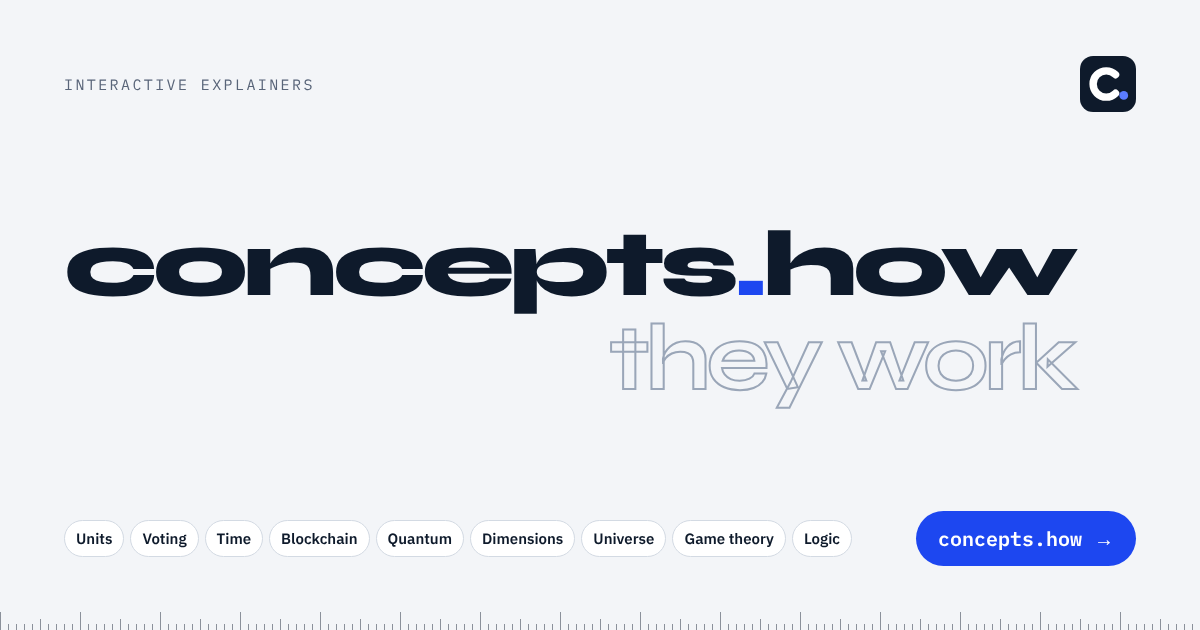
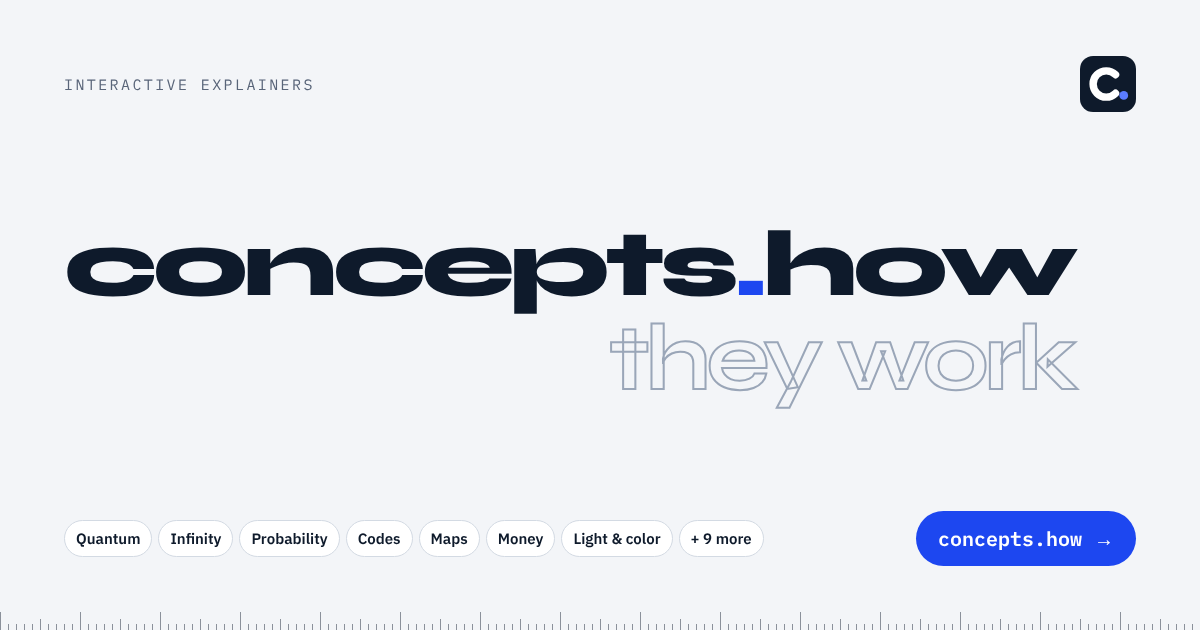
Grouped Topics menu on all widths, cookie copy for new pages, updated share card and README
Claude-Session: https://claude.ai/code/session_014eWKRQ3YXh4wgfZGGefy9o

Changed region(s): [[0.0617, 0.8444, 0.6475, 0.8746], [0.6783, 0.8444, 0.7092, 0.8746]]

diff --git a/theme.js b/theme.js
@@ -58,46 +58,61 @@
   }
 })();
 
-/* Mobile topics menu: on narrow screens the topic links fold into a kebab (⋮) button. */
+/* Topics menu: the topic links fold into a "Topics" button (⋮ on phones) that opens a grouped grid. */
 (function () {
   var es = (document.documentElement.lang || "").slice(0, 2) === "es";
-  var L = es ? { btn: "Menú", menu: "Temas", set: "Idioma y tema" } : { btn: "Menu", menu: "Topics", set: "Language & theme" };
+  var L = es ? { btn: "Temas", menu: "Todos los temas", set: "Idioma y tema" } : { btn: "Topics", menu: "All topics", set: "Language & theme" };
+  var GROUPS = es
+    ? [["Matemáticas y lógica", ["logic", "probability", "infinity", "gametheory"]], ["Física y espacio", ["quantum", "light", "universe", "time", "dimensions"]], ["Sociedad", ["voting", "money", "language", "maps"]], ["Tecnología y medida", ["blockchain", "codes", "units"]]]
+    : [["Maths & logic", ["logic", "probability", "infinity", "gametheory"]], ["Physics & space", ["quantum", "light", "universe", "time", "dimensions"]], ["People & society", ["voting", "money", "language", "maps"]], ["Tech & measurement", ["blockchain", "codes", "units"]]];
   var SM = 640;
-  var BP = 1180;
-  var css = ".site{position:relative}" +
-    ".kb{display:none;place-items:center;width:40px;height:40px;border:1px solid var(--line);border-radius:999px;background:var(--card);color:var(--ink);cursor:pointer;padding:0}" +
+  var css = ".site{position:relative}.site a.nl{display:none!important}.site .ctl{margin-left:auto}.site .wrap{flex-wrap:nowrap;padding-bottom:0}" +
+    ".kb{display:inline-flex;align-items:center;gap:8px;height:40px;padding:0 14px 0 12px;border:1px solid var(--line);border-radius:999px;background:var(--card);color:var(--ink);cursor:pointer;font:600 14px/1 var(--body,system-ui)}" +
     ".kb:hover,.kb[aria-expanded=true]{border-color:var(--accent);color:var(--accent)}" +
-    ".kb svg{width:18px;height:18px}" +
-    ".kbm{position:absolute;right:clamp(16px,4vw,40px);top:calc(100% + 6px);z-index:900;min-width:220px;max-width:calc(100vw - 32px);background:var(--card);border:1px solid var(--line);border-radius:14px;box-shadow:0 14px 34px rgba(0,0,0,.18);padding:6px;display:grid;gap:2px}" +
+    ".kb svg{width:16px;height:16px}.kb .dots{display:none}" +
+    ".kbm{position:absolute;right:clamp(16px,4vw,40px);top:calc(100% + 6px);z-index:900;width:min(780px,calc(100vw - 32px));max-height:calc(100vh - 90px);overflow:auto;background:var(--card);border:1px solid var(--line);border-radius:16px;box-shadow:0 18px 40px rgba(0,0,0,.18);padding:10px;display:grid;gap:4px}" +
     ".kbm[hidden]{display:none}" +
-    ".kbm .h{font-family:var(--mono,monospace);font-size:11px;letter-spacing:.1em;text-transform:uppercase;color:var(--muted);padding:8px 12px 4px}" +
-    ".kbm a{display:flex;align-items:center;justify-content:space-between;gap:12px;padding:11px 12px;border-radius:9px;color:var(--ink);text-decoration:none;font-size:15px}" +
-    ".kbm a:hover{background:var(--paper)}" +
+    ".kbm .h{font-family:var(--mono,monospace);font-size:11px;letter-spacing:.1em;text-transform:uppercase;color:var(--muted);padding:8px 10px 4px}" +
+    ".kbm .grp{display:grid;grid-template-columns:repeat(4,minmax(0,1fr));gap:4px 12px}" +
+    ".kbm .col{display:grid;align-content:start;gap:1px}" +
+    ".kbm a{display:block;padding:9px 10px;border-radius:9px;color:var(--ink);text-decoration:none;font-size:15px}" +
+    ".kbm a:hover,.kbm a:focus-visible{background:var(--paper)}" +
     ".kbm a[aria-current=page]{background:var(--accent-soft,var(--paper));color:var(--accent);font-weight:600}" +
-    ".kbm a span{font-family:var(--mono,monospace);font-size:11px;color:var(--muted)}" +
-    "@media (max-width:" + BP + "px){.site a.nl{display:none!important}.kb{display:grid}.site .ctl{margin-left:auto}.site .wrap{flex-wrap:nowrap;padding-bottom:0}}" +
-    ".kbm .set{border-top:1px solid var(--line);margin-top:4px;padding:10px 12px 8px;display:grid;gap:8px}" +
+    ".kbm .home{border-top:1px solid var(--line);margin-top:6px;padding-top:8px;display:flex;justify-content:space-between;align-items:center;gap:8px;flex-wrap:wrap}" +
+    ".kbm .home a{font-size:14px;color:var(--muted)}" +
+    ".kbm .set{border-top:1px solid var(--line);margin-top:4px;padding:10px 10px 6px;display:grid;gap:8px}" +
     ".kbm .set .ctl{display:flex!important;gap:8px;margin:0!important;flex-wrap:wrap}" +
-    "@media (max-width:" + SM + "px){.wrap{padding-left:12px!important;padding-right:12px!important}.kbm{right:12px;left:12px;min-width:0;max-width:none}}";
+    "@media (max-width:860px){.kbm .grp{grid-template-columns:repeat(2,minmax(0,1fr))}}" +
+    "@media (max-width:" + SM + "px){.wrap{padding-left:12px!important;padding-right:12px!important}.kbm{right:12px;left:12px;width:auto}.kbm .grp{grid-template-columns:1fr 1fr}" +
+    ".kb{width:40px;padding:0;justify-content:center}.kb .lbl2,.kb .grid{display:none}.kb .dots{display:block}}" +
+    "@media (max-width:360px){.kbm .grp{grid-template-columns:1fr}}";
   var st = document.createElement("style"); st.textContent = css; document.head.appendChild(st);
 
   function init() {
     var wrap = document.querySelector("nav.site .wrap");
-    var links = wrap ? wrap.querySelectorAll("a.nl") : [];
+    var links = wrap ? [].slice.call(wrap.querySelectorAll("a.nl")) : [];
     if (!links.length) return;
+    var bySlug = {};
+    links.forEach(function (a) { bySlug[(a.getAttribute("href") || "").replace(/^.*\//, "").replace(/\.html$/, "")] = a; });
     var btn = document.createElement("button");
     btn.type = "button"; btn.className = "kb";
     btn.setAttribute("aria-label", L.btn); btn.setAttribute("aria-haspopup", "true");
     btn.setAttribute("aria-expanded", "false"); btn.setAttribute("aria-controls", "kbm");
-    btn.innerHTML = '<svg viewBox="0 0 24 24" fill="currentColor" aria-hidden="true"><circle cx="12" cy="5" r="2"/><circle cx="12" cy="12" r="2"/><circle cx="12" cy="19" r="2"/></svg>';
+    btn.innerHTML = '<svg class="grid" viewBox="0 0 24 24" fill="currentColor" aria-hidden="true"><rect x="3" y="3" width="7.5" height="7.5" rx="2"/><rect x="13.5" y="3" width="7.5" height="7.5" rx="2"/><rect x="3" y="13.5" width="7.5" height="7.5" rx="2"/><rect x="13.5" y="13.5" width="7.5" height="7.5" rx="2"/></svg><span class="lbl2">' + L.btn + '</span><svg class="dots" viewBox="0 0 24 24" fill="currentColor" aria-hidden="true"><circle cx="12" cy="5" r="2"/><circle cx="12" cy="12" r="2"/><circle cx="12" cy="19" r="2"/></svg>';
     var menu = document.createElement("div");
     menu.className = "kbm"; menu.id = "kbm"; menu.hidden = true;
     menu.setAttribute("role", "menu"); menu.setAttribute("aria-label", L.menu);
-    var html = '<div class="h">' + L.menu + "</div>";
-    links.forEach(function (a, i) {
-      var cur = a.getAttribute("aria-current") === "page";
-      html += '<a role="menuitem" href="' + a.getAttribute("href") + '"' + (cur ? ' aria-current="page"' : "") + ">" + a.textContent + "<span>" + String(i + 1).padStart(2, "0") + "</span></a>";
+    var item = function (a) { var cur = a.getAttribute("aria-current") === "page"; return '<a role="menuitem" href="' + a.getAttribute("href") + '"' + (cur ? ' aria-current="page"' : "") + ">" + a.textContent + "</a>"; };
+    var used = {}, html = '<div class="grp">';
+    GROUPS.forEach(function (g) {
+      var inner = g[1].filter(function (s) { return bySlug[s]; }).map(function (s) { used[s] = 1; return item(bySlug[s]); }).join("");
+      if (inner) html += '<div class="col"><div class="h">' + g[0] + "</div>" + inner + "</div>";
     });
+    var rest = links.filter(function (a) { var s = (a.getAttribute("href") || "").replace(/^.*\//, "").replace(/\.html$/, ""); return !used[s]; });
+    if (rest.length) html += '<div class="col"><div class="h">' + (es ? "Más" : "More") + "</div>" + rest.map(item).join("") + "</div>";
+    html += "</div>";
+    var home = wrap.querySelector("a.brand");
+    if (home) html += '<div class="home"><a role="menuitem" href="' + home.getAttribute("href") + '">' + (es ? "← Todos los temas en la portada" : "← All topics on the home page") + "</a></div>";
     menu.innerHTML = html;
     wrap.appendChild(btn);
     wrap.parentNode.appendChild(menu);
@@ -128,7 +143,6 @@
         items[i].focus(); e.preventDefault();
       }
     });
-    window.addEventListener("resize", function () { if (innerWidth > BP && !menu.hidden) open(false); });
   }
   if (document.readyState === "loading") document.addEventListener("DOMContentLoaded", init); else init();
 })();

diff --git a/consent.js b/consent.js
@@ -19,6 +19,14 @@
       dimensions: ["A cookie in 3D", "A four-dimensional being could peek without asking. We won’t: analytics cookies only switch on if you accept."],
       universe: ["A very small object", "Each analytics cookie is a few dozen bytes in a very big universe. They help us see which pages get used, and only switch on if you accept."],
       gametheory: ["Your move", "Accept and analytics cookies help us see which pages get used. Decline and nothing switches on. No dilemma: both choices are fine with us."],
+      probability: ["What are the odds?", "Accept and analytics cookies help us see which pages get used. Decline and the chance they switch on is exactly 0%."],
+      codes: ["Nothing encrypted here", "In plain text: analytics cookies help us see which pages get used, and they only switch on if you accept."],
+      infinity: ["A finite request", "Analytics cookies help us see which pages get used. Not infinitely many, just one small yes or no, and they only switch on if you accept."],
+      language: ["Cookie (n.)", "A small file that helps us see which pages get used. Our analytics cookies only switch on if you accept. Not to be confused with galleta."],
+      maps: ["You are here", "Analytics cookies help us see which pages get used, not where you are. They only switch on if you accept."],
+      money: ["Free, no interest", "Analytics cookies cost you nothing and help us see which pages get used. They only switch on if you accept."],
+      light: ["Shedding some light", "Analytics cookies help us see which pages get used. They stay dark unless you accept."],
+      disclaimer: ["The small print", "We use analytics cookies to see which pages get used. They only switch on if you accept, and you can change your mind any time."],
       logic: ["If accept, then cookies", "Accept → analytics cookies help us see which pages get used. ¬Accept → ¬cookies. That’s the whole truth table."]
     },
     es: {
@@ -31,6 +39,14 @@
       dimensions: ["Una cookie en 3D", "Un ser de cuatro dimensiones podría espiar sin pedir permiso. Nosotros no: las cookies de analítica solo se activan si las aceptas."],
       universe: ["Un objeto muy pequeño", "Cada cookie de analítica ocupa unas decenas de bytes en un universo enorme. Nos ayudan a ver qué páginas se usan y solo se activan si las aceptas."],
       gametheory: ["Te toca", "Si aceptas, las cookies de analítica nos ayudan a ver qué páginas se usan. Si rechazas, no se activa nada. Sin dilema: las dos opciones nos parecen bien."],
+      probability: ["¿Qué probabilidades hay?", "Si aceptas, las cookies de analítica nos ayudan a ver qué páginas se usan. Si rechazas, la probabilidad de que se activen es exactamente del 0 %."],
+      codes: ["Aquí no hay nada cifrado", "En texto claro: las cookies de analítica nos ayudan a ver qué páginas se usan, y solo se activan si las aceptas."],
+      infinity: ["Una petición finita", "Las cookies de analítica nos ayudan a ver qué páginas se usan. No infinitas: solo un pequeño sí o no, y solo se activan si las aceptas."],
+      language: ["Cookie (s.)", "Un pequeño archivo que nos ayuda a ver qué páginas se usan. Nuestras cookies de analítica solo se activan si las aceptas. No confundir con galleta."],
+      maps: ["Usted está aquí", "Las cookies de analítica nos ayudan a ver qué páginas se usan, no dónde estás. Solo se activan si las aceptas."],
+      money: ["Gratis y sin intereses", "Las cookies de analítica no te cuestan nada y nos ayudan a ver qué páginas se usan. Solo se activan si las aceptas."],
+      light: ["Arrojando algo de luz", "Las cookies de analítica nos ayudan a ver qué páginas se usan. Se quedan a oscuras a menos que las aceptes."],
+      disclaimer: ["La letra pequeña", "Usamos cookies de analítica para ver qué páginas se usan. Solo se activan si las aceptas, y puedes cambiar de opinión cuando quieras."],
       logic: ["Si aceptas, entonces cookies", "Aceptar → las cookies de analítica nos ayudan a ver qué páginas se usan. ¬Aceptar → ¬cookies. Esa es toda la tabla de verdad."]
     }
   };

diff --git a/es/codes.html b/es/codes.html
@@ -18,7 +18,7 @@ j=d.createElement(s),dl=l!='dataLayer'?'&l='+l:'';j.async=true;j.src=
 <!-- End Google Tag Manager -->
 
 <meta charset="utf-8">
-<style>@media (max-width:1180px){.js .site a.nl{display:none}}@media (max-width:640px){.js .site .wrap:has(a.nl)>.ctl{display:none}}</style>
+<style>.js .site a.nl{display:none}@media (max-width:640px){.js .site .wrap:has(a.nl)>.ctl{display:none}}</style>
 <script>document.documentElement.classList.add("js");try{var t=localStorage.getItem("theme");if(t==="light"||t==="dark")document.documentElement.setAttribute("data-theme",t)}catch(e){}</script>
 <script src="../theme.js" defer></script>
 <meta name="viewport" content="width=device-width, initial-scale=1">

diff --git a/es/dimensions.html b/es/dimensions.html
@@ -18,7 +18,7 @@ j=d.createElement(s),dl=l!='dataLayer'?'&l='+l:'';j.async=true;j.src=
 <!-- End Google Tag Manager -->
 
 <meta charset="utf-8">
-<style>@media (max-width:1180px){.js .site a.nl{display:none}}@media (max-width:640px){.js .site .wrap:has(a.nl)>.ctl{display:none}}</style>
+<style>.js .site a.nl{display:none}@media (max-width:640px){.js .site .wrap:has(a.nl)>.ctl{display:none}}</style>
 <script>document.documentElement.classList.add("js");try{var t=localStorage.getItem("theme");if(t==="light"||t==="dark")document.documentElement.setAttribute("data-theme",t)}catch(e){}</script>
 <script src="../theme.js" defer></script>
 <meta name="viewport" content="width=device-width, initial-scale=1">

diff --git a/es/disclaimer.html b/es/disclaimer.html
@@ -18,7 +18,7 @@ j=d.createElement(s),dl=l!='dataLayer'?'&l='+l:'';j.async=true;j.src=
 <!-- End Google Tag Manager -->
 
 <meta charset="utf-8">
-<style>@media (max-width:1180px){.js .site a.nl{display:none}}@media (max-width:640px){.js .site .wrap:has(a.nl)>.ctl{display:none}}</style>
+<style>.js .site a.nl{display:none}@media (max-width:640px){.js .site .wrap:has(a.nl)>.ctl{display:none}}</style>
 <script>document.documentElement.classList.add("js");try{var t=localStorage.getItem("theme");if(t==="light"||t==="dark")document.documentElement.setAttribute("data-theme",t)}catch(e){}</script>
 <script src="../theme.js" defer></script>
 <meta name="viewport" content="width=device-width, initial-scale=1">

diff --git a/es/gametheory.html b/es/gametheory.html
@@ -18,7 +18,7 @@ j=d.createElement(s),dl=l!='dataLayer'?'&l='+l:'';j.async=true;j.src=
 <!-- End Google Tag Manager -->
 
 <meta charset="utf-8">
-<style>@media (max-width:1180px){.js .site a.nl{display:none}}@media (max-width:640px){.js .site .wrap:has(a.nl)>.ctl{display:none}}</style>
+<style>.js .site a.nl{display:none}@media (max-width:640px){.js .site .wrap:has(a.nl)>.ctl{display:none}}</style>
 <script>document.documentElement.classList.add("js");try{var t=localStorage.getItem("theme");if(t==="light"||t==="dark")document.documentElement.setAttribute("data-theme",t)}catch(e){}</script>
 <script src="../theme.js" defer></script>
 <meta name="viewport" content="width=device-width, initial-scale=1">

diff --git a/es/infinity.html b/es/infinity.html
@@ -18,7 +18,7 @@ j=d.createElement(s),dl=l!='dataLayer'?'&l='+l:'';j.async=true;j.src=
 <!-- End Google Tag Manager -->
 
 <meta charset="utf-8">
-<style>@media (max-width:1180px){.js .site a.nl{display:none}}@media (max-width:640px){.js .site .wrap:has(a.nl)>.ctl{display:none}}</style>
+<style>.js .site a.nl{display:none}@media (max-width:640px){.js .site .wrap:has(a.nl)>.ctl{display:none}}</style>
 <script>document.documentElement.classList.add("js");try{var t=localStorage.getItem("theme");if(t==="light"||t==="dark")document.documentElement.setAttribute("data-theme",t)}catch(e){}</script>
 <script src="../theme.js" defer></script>
 <meta name="viewport" content="width=device-width, initial-scale=1">

diff --git a/es/language.html b/es/language.html
@@ -18,7 +18,7 @@ j=d.createElement(s),dl=l!='dataLayer'?'&l='+l:'';j.async=true;j.src=
 <!-- End Google Tag Manager -->
 
 <meta charset="utf-8">
-<style>@media (max-width:1180px){.js .site a.nl{display:none}}@media (max-width:640px){.js .site .wrap:has(a.nl)>.ctl{display:none}}</style>
+<style>.js .site a.nl{display:none}@media (max-width:640px){.js .site .wrap:has(a.nl)>.ctl{display:none}}</style>
 <script>document.documentElement.classList.add("js");try{var t=localStorage.getItem("theme");if(t==="light"||t==="dark")document.documentElement.setAttribute("data-theme",t)}catch(e){}</script>
 <script src="../theme.js" defer></script>
 <meta name="viewport" content="width=device-width, initial-scale=1">

diff --git a/es/light.html b/es/light.html
@@ -18,7 +18,7 @@ j=d.createElement(s),dl=l!='dataLayer'?'&l='+l:'';j.async=true;j.src=
 <!-- End Google Tag Manager -->
 
 <meta charset="utf-8">
-<style>@media (max-width:1180px){.js .site a.nl{display:none}}@media (max-width:640px){.js .site .wrap:has(a.nl)>.ctl{display:none}}</style>
+<style>.js .site a.nl{display:none}@media (max-width:640px){.js .site .wrap:has(a.nl)>.ctl{display:none}}</style>
 <script>document.documentElement.classList.add("js");try{var t=localStorage.getItem("theme");if(t==="light"||t==="dark")document.documentElement.setAttribute("data-theme",t)}catch(e){}</script>
 <script src="../theme.js" defer></script>
 <meta name="viewport" content="width=device-width, initial-scale=1">

diff --git a/es/logic.html b/es/logic.html
@@ -18,7 +18,7 @@ j=d.createElement(s),dl=l!='dataLayer'?'&l='+l:'';j.async=true;j.src=
 <!-- End Google Tag Manager -->
 
 <meta charset="utf-8">
-<style>@media (max-width:1180px){.js .site a.nl{display:none}}@media (max-width:640px){.js .site .wrap:has(a.nl)>.ctl{display:none}}</style>
+<style>.js .site a.nl{display:none}@media (max-width:640px){.js .site .wrap:has(a.nl)>.ctl{display:none}}</style>
 <script>document.documentElement.classList.add("js");try{var t=localStorage.getItem("theme");if(t==="light"||t==="dark")document.documentElement.setAttribute("data-theme",t)}catch(e){}</script>
 <script src="../theme.js" defer></script>
 <meta name="viewport" content="width=device-width, initial-scale=1">

diff --git a/es/maps.html b/es/maps.html
@@ -18,7 +18,7 @@ j=d.createElement(s),dl=l!='dataLayer'?'&l='+l:'';j.async=true;j.src=
 <!-- End Google Tag Manager -->
 
 <meta charset="utf-8">
-<style>@media (max-width:1180px){.js .site a.nl{display:none}}@media (max-width:640px){.js .site .wrap:has(a.nl)>.ctl{display:none}}</style>
+<style>.js .site a.nl{display:none}@media (max-width:640px){.js .site .wrap:has(a.nl)>.ctl{display:none}}</style>
 <script>document.documentElement.classList.add("js");try{var t=localStorage.getItem("theme");if(t==="light"||t==="dark")document.documentElement.setAttribute("data-theme",t)}catch(e){}</script>
 <script src="../theme.js" defer></script>
 <meta name="viewport" content="width=device-width, initial-scale=1">

diff --git a/es/money.html b/es/money.html
@@ -18,7 +18,7 @@ j=d.createElement(s),dl=l!='dataLayer'?'&l='+l:'';j.async=true;j.src=
 <!-- End Google Tag Manager -->
 
 <meta charset="utf-8">
-<style>@media (max-width:1180px){.js .site a.nl{display:none}}@media (max-width:640px){.js .site .wrap:has(a.nl)>.ctl{display:none}}</style>
+<style>.js .site a.nl{display:none}@media (max-width:640px){.js .site .wrap:has(a.nl)>.ctl{display:none}}</style>
 <script>document.documentElement.classList.add("js");try{var t=localStorage.getItem("theme");if(t==="light"||t==="dark")document.documentElement.setAttribute("data-theme",t)}catch(e){}</script>
 <script src="../theme.js" defer></script>
 <meta name="viewport" content="width=device-width, initial-scale=1">
